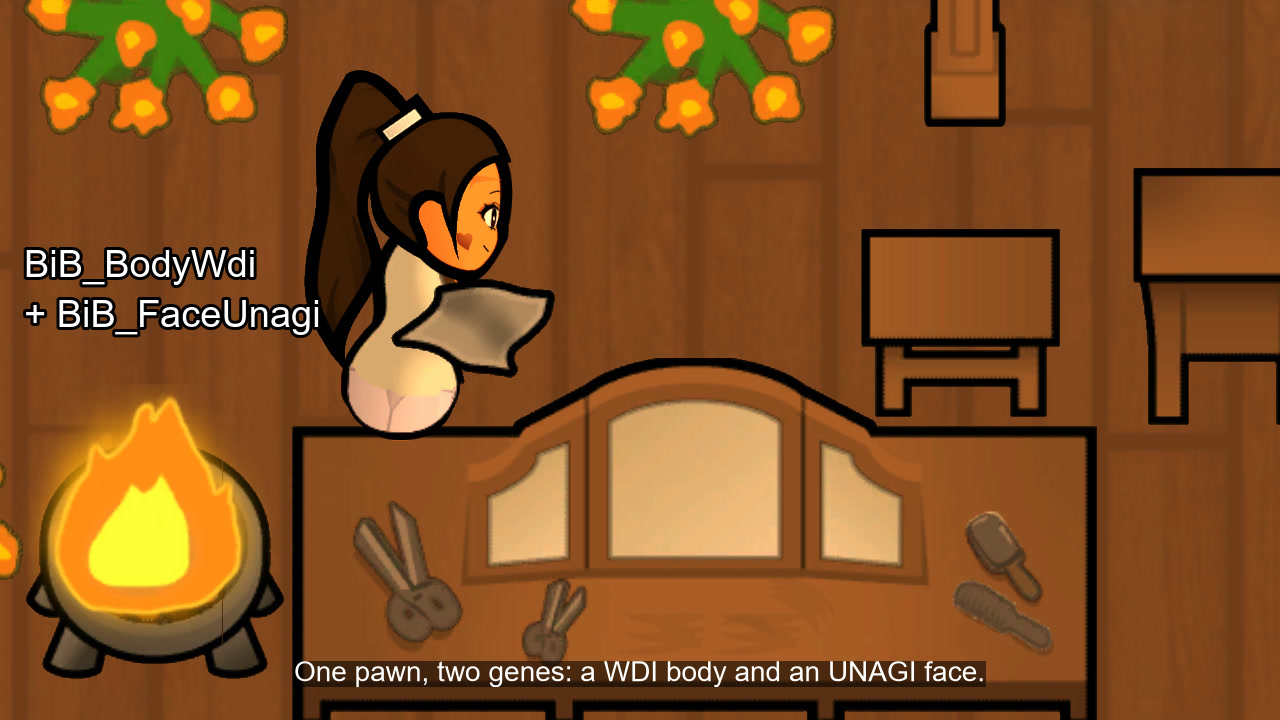
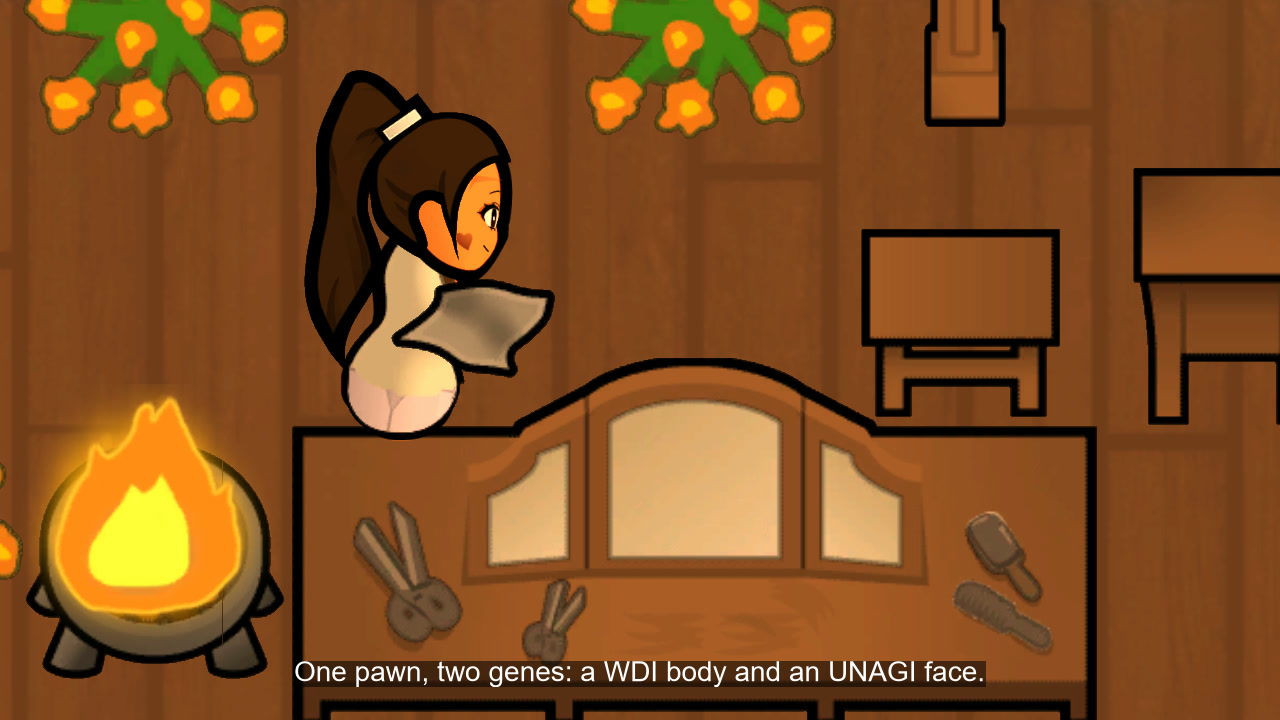
Gallery: subtitles burned on shots 1 to 6, shot 2 added, gallery of 8 complete

Changed region(s): [[0.0, 0.3361, 0.25, 0.4889]]

diff --git a/STATUS.md b/STATUS.md
@@ -21,7 +21,7 @@ published: no
 tested_on: "2026-11-22 pickle f0b3d49, Mod/ unchanged since 0ebc264 (replays green: faceunagi 6150 4/4 hetzner, nicefa 1a82, reel a29f, rimmsqol 4e62 3/3, custombody 228f 3/3, settings 75a2 4/4, proofs in Tests/Pickle/Evidence); 2026-11-18 f57edd6: 03 04 05 09 11 12 green, 16 red = documented BMMaM incompat"
 code_review_sha: f0b3d4958eb6fe6ae04661b9cd3ae7137ba610d4
 remaining:
-  - "shootGallery 2026-11-22 (replay playTests.. typed by owner): 8.a to 8.n done (six replays green, tested_on f0b3d49). Open: 9.a shots 2 (crop, labels) and 6 (ticket c3e9 green in Inbox/gallery-v35: score-gallery and 268 px check owed) into Art/Gallery; 9.b index gap; 9.c 9.d; 9.e table; 9.e bis subtitles (rate-gallery); 9.f gallery_validated_sha needs her oui. Also: sync-nsb-npt (NSB changed 2026-11-22); Tests/ @requires clickdiagnostics and inspecttabs lines flagged by Check-Steps (Tests/ fix owed); 8.i log proof is the gallery-v35 Player.log only (replay logs lost to minify)."
+  - "shootGallery 2026-11-22 (replay playTests.. typed by owner): 8.a to 8.n done (six replays green, tested_on f0b3d49). Open: gallery of 8 images complete in Art/Gallery (subtitles burned on 1 to 6, 7 and 8 interface, no gap); only 9.f open: gallery_validated_sha needs her oui, then mountPreview via replay-audit. Also: sync-nsb-npt (NSB changed 2026-11-22); Tests/ @requires clickdiagnostics and inspecttabs lines flagged by Check-Steps (Tests/ fix owed); 8.i log proof is the gallery-v35 Player.log only (replay logs lost to minify)."
   - "playTests 2026-11-22: 8.m done (Opus review of 050c7b5..HEAD, four iconPath values, verdict OK; icon seen in Art/Gallery-clean/7-genes-tab.jpg), code_review_sha refreshed. six replay tickets on f0b3d49 all green and sorted into Evidence 2026-11-22 (unagi+default 6150 4/4 [hetzner lane, Pickle older than azure], nicefa 1a82, reel a29f, rimmsqol 4e62, custombody 228f, settings 75a2); tested_on set; replay-audit to close 8.a 8.c 8.d 8.f 8.g 8.h 8.i; then triage, set tested_on, close 8.d 8.f 8.g 8.h 8.i, replay-audit. Shot 6 c3e9 scored and stored as candidate 2026-11-22. NPT sync done 2026-11-22. Gallery work below is kept."
   - "Open 2026-11-19 (the journal file was deleted 2026-11-22, git keeps it; the NSB and Shotlist sections below hold the gallery state). GALLERY: shotlist v24 (feature 14 header, V24 and V24b) is the plan. Candidates stored in Art/Gallery-clean and Art/Gallery: 1, 3 (label BiB_BodyWdi + BiB_FaceUnagi burned), 4, 5; interface shots 7 (genes tab, green f423) and 8 (options window) stored without subtitle. Shots 2 and 6: V25 filed 2026-11-19 as ticket ba74 (tree 2118e7a, map gallery-visualmods, evidence Inbox/gallery-v34); on RUN_DONE: read summary.json, open captures, shrink to 268 px, score-gallery; shot 2 then torso crop 640x360 + labels vanilla body and WDI body + subtitle, shot 6 crop only if water stays in frame; REDO means delete run and recompose. Earlier v32 run (e33f, 0823) was REDO, deleted. Old notes: Shot 2: two near-identical pawns (same afro, shirt, skin), WDI body not visible at this crop; recompose with torso crop 640x360 and labels vanilla body and WDI body, or two clearly different pawns. Shot 6 v28: reeds and lily pads at the left but no readable pond, pawns in a row, Soren with WoodLog and not beside a lamp; recompose. Not verified: 268 px shrink (ffmpeg) of both. Rule (owner 2026-11-19, Audit): the session decides each image alone, candidate kept (Art plus minified green run in Tests/Pickle/Evidence), REDO to Parked with RELEASE.md and a new take; one owner review at the end (12b). Owed when candidates are final: minify the green run folder of each candidate into Evidence, burn subtitles for 2, send all subtitled images in one message."
   - "CODE and AUDIT: Mod/Defs/GeneDefs_Looks.xml iconPath of the four face genes fixed 2026-11-19 to UI/Icons/Genes/Gene_HeadboneHuman (Gene_Head does not exist, Genes tab logged an error, found by shot 7); Mod/ changed after tested_on f57edd6 and code_review_sha 050c7b5 (four XML values, no code): Audit to say whether 8.a and 8.m reopen; translation review stale on that file (regenerate). 8.m code review of 5cb9ad6..HEAD kept by Audit before this change. Replays green 2026-11-18 on f57edd6 (03 04 05 09 11 12), 16 red documented (BMMaM incompatibleWith stays)."
@@ -104,11 +104,11 @@ Plan: shotlist v24 (header V24 and V24b of `Tests/Pickle/Features/14-gallery.fea
 | Shot | Place, time | Subject | State (2026-11-19) |
 |---|---|---|---|
 | 1-bridge-morning | river-bridge 08:00 | Nelim carries Cloth, Shogun in front | candidate (Art/Gallery-clean and Art/Gallery) |
-| 2-two-bodies | hut 09:00 | same Hulk Female body, WDI (front) and vanilla (profile) | candidate: torso crop 640x360 with labels in Art/Gallery-clean (ticket ba74 green, minified in Evidence/gallery-candidates/v34-shot2); subtitle at rate-gallery |
+| 2-two-bodies | hut 09:00 | same Hulk Female body, WDI (front) and vanilla (profile) | candidate: torso crop 640x360 with labels in Art/Gallery-clean (ticket ba74 green, minified in Evidence/gallery-candidates/v34-shot2); subtitle burned 2026-11-22 |
 | 3-nelim-turn | cloister 12:00 | Nelim BiB_BodyWdi + BiB_FaceUnagi | candidate, label burned (proof: ticket 4839 with visual mods) |
 | 4-faces-at-the-mirror | cloister 13:00 | four face packs | candidate |
 | 5-soren-portrait | flower-garden 15:00 | one face pack close up | candidate |
-| 6-water-garden-dusk | water-garden 17:00 | friends leave at dusk | candidate 2026-11-22 (ticket c3e9 green, 268 px checked: pond, reeds, lily pads, dog and pawns readable; stored in Art/Gallery-clean and Art/Gallery, run minified in Evidence/gallery-candidates/v35-shot6); subtitle at rate-gallery |
+| 6-water-garden-dusk | water-garden 17:00 | friends leave at dusk | candidate 2026-11-22 (ticket c3e9 green, 268 px checked: pond, reeds, lily pads, dog and pawns readable; stored in Art/Gallery-clean and Art/Gallery, run minified in Evidence/gallery-candidates/v35-shot6); subtitle burned 2026-11-22 |
 | 7-genes-tab | cloister | Genes tab of Nelim | stored, no subtitle (ticket f423 green after iconPath fix) |
 | 8-options-window | window-backdrop | Mod options | stored, no subtitle (ticket 2405) |
 
